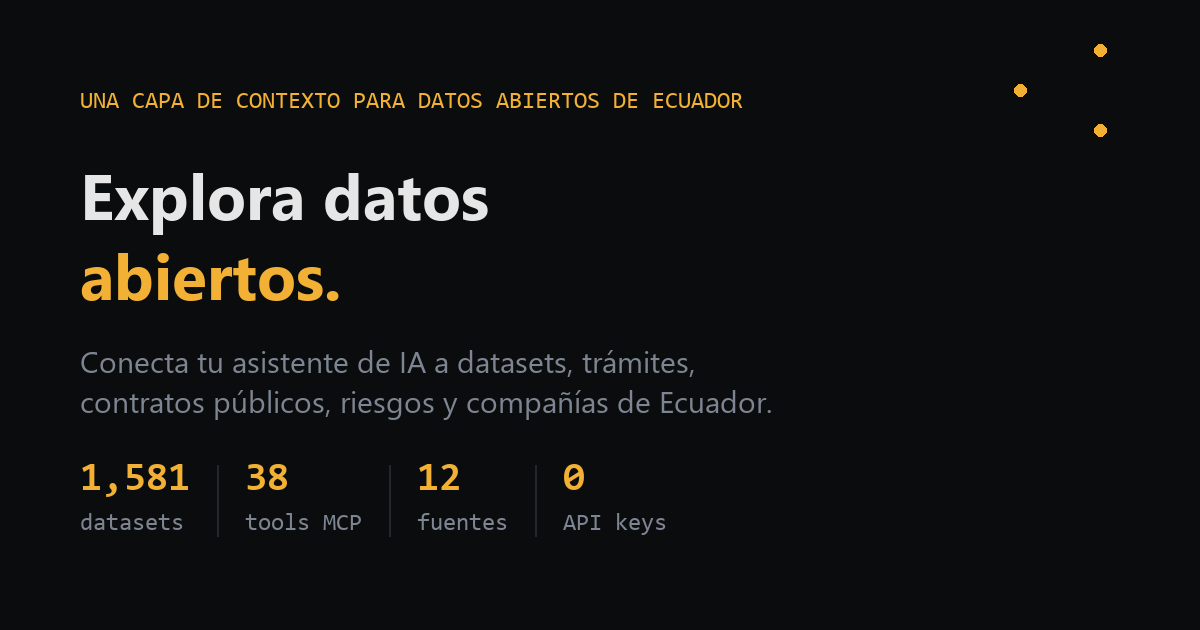
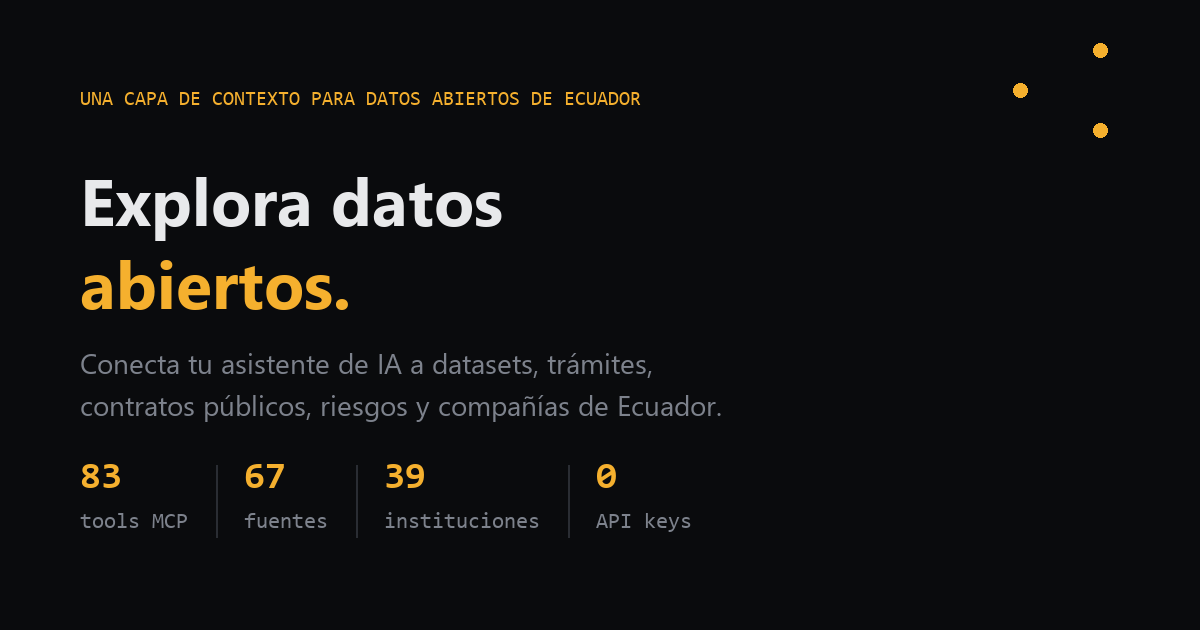
Regenerate og-image from data counts (83 tools, 67 sources, 39 institutions)

diff --git a/web/scripts/make_og_image.py b/web/scripts/make_og_image.py
@@ -1,0 +1,73 @@
+"""Render web/assets/og-image.png (1200x630) with counts read from web/data.
+
+Run: uv run --with pillow python web/scripts/make_og_image.py
+Fonts are system fonts (no network); candidates are tried in order.
+"""
+import json
+from pathlib import Path
+
+from PIL import Image, ImageDraw, ImageFont
+
+WEB = Path(__file__).resolve().parent.parent
+OUT = WEB / "assets" / "og-image.png"
+
+BG, AMBER, WHITE, MUTED, RULE = "#0a0b0d", "#f5b02e", "#e8e9eb", "#7d828c", "#2a2d33"
+
+SANS = ["segoeui.ttf", "NotoSans-Regular.ttf", "DejaVuSans.ttf"]
+SANS_BOLD = ["segoeuib.ttf", "NotoSans-Bold.ttf", "DejaVuSans-Bold.ttf"]
+MONO = ["consola.ttf", "DejaVuSansMono.ttf"]
+MONO_BOLD = ["consolab.ttf", "DejaVuSansMono-Bold.ttf"]
+
+
+def font(names, size):
+    for name in names:
+        try:
+            return ImageFont.truetype(name, size)
+        except OSError:
+            continue
+    raise SystemExit(f"No font found among {names}")
+
+
+def counts():
+    tools = json.loads((WEB / "data/tool_signatures.json").read_text(encoding="utf-8"))
+    themes = json.loads((WEB / "data/sources.json").read_text(encoding="utf-8"))
+    institutions = [i for t in themes for i in t["institutions"]]
+    n_sources = sum(len(i["sources"]) for i in institutions)
+    return len(tools), n_sources, len(institutions)
+
+
+def main():
+    n_tools, n_sources, n_inst = counts()
+    img = Image.new("RGB", (1200, 630), BG)
+    d = ImageDraw.Draw(img)
+
+    d.text((80, 100), "UNA CAPA DE CONTEXTO PARA DATOS ABIERTOS DE ECUADOR",
+           font=font(MONO, 20), fill=AMBER, anchor="lm")
+    big = font(SANS_BOLD, 66)
+    d.text((80, 198), "Explora datos", font=big, fill=WHITE, anchor="lm")
+    d.text((80, 281), "abiertos.", font=big, fill=AMBER, anchor="lm")
+    sub = font(SANS, 28)
+    d.text((80, 362), "Conecta tu asistente de IA a datasets, trámites,", font=sub, fill=MUTED, anchor="lm")
+    d.text((80, 404), "contratos públicos, riesgos y compañías de Ecuador.", font=sub, fill=MUTED, anchor="lm")
+
+    for x, y in [(1100, 50), (1020, 90), (1100, 130)]:
+        d.ellipse((x - 7, y - 7, x + 7, y + 7), fill=AMBER)
+
+    stats = [(str(n_tools), "tools MCP"), (str(n_sources), "fuentes"),
+             (str(n_inst), "instituciones"), ("0", "API keys")]
+    num_f, lab_f = font(MONO_BOLD, 38), font(MONO, 22)
+    x = 80
+    for i, (num, label) in enumerate(stats):
+        d.text((x, 478), num, font=num_f, fill=AMBER, anchor="lm")
+        d.text((x, 522), label, font=lab_f, fill=MUTED, anchor="lm")
+        w = max(d.textlength(num, font=num_f), d.textlength(label, font=lab_f))
+        x += w + 28
+        if i < len(stats) - 1:
+            d.line((x, 465, x, 537), fill=RULE, width=2)
+            x += 28
+    img.save(OUT, optimize=True)
+    print(f"wrote {OUT}: tools={n_tools} fuentes={n_sources} instituciones={n_inst}")
+
+
+if __name__ == "__main__":
+    main()

diff --git a/web/README.md b/web/README.md
@@ -21,6 +21,7 @@ para que un solo PR pueda actualizar el README del servidor y el sitio a la vez.
   qué parámetros tienen: `build.py` descarta de `tools.json` los tools que ya no existen, sincroniza sus
   parámetros con el código y muestra los tools nuevos en una categoría aparte, en inglés, hasta que se
   traduzcan a mano `description`/`long_description`/`params` en `data/tools.json` y `en/data/tools.json`.
+- `assets/og-image.png` — imagen social, regenerada con los conteos de `data/` por `scripts/make_og_image.py` (`uv run --with pillow python scripts/make_og_image.py`).
 - `assets/site.css` y `assets/atlas.css` — el CSS propio del sitio (`atlas.css` solo se carga en la página
   del Atlas), en texto plano; edítalos directamente. `assets/styles.css` es la base compilada (estilos tipo
   Bootstrap): no se recompila desde ningún SCSS del repo, así que los cambios de diseño van en `site.css`.
